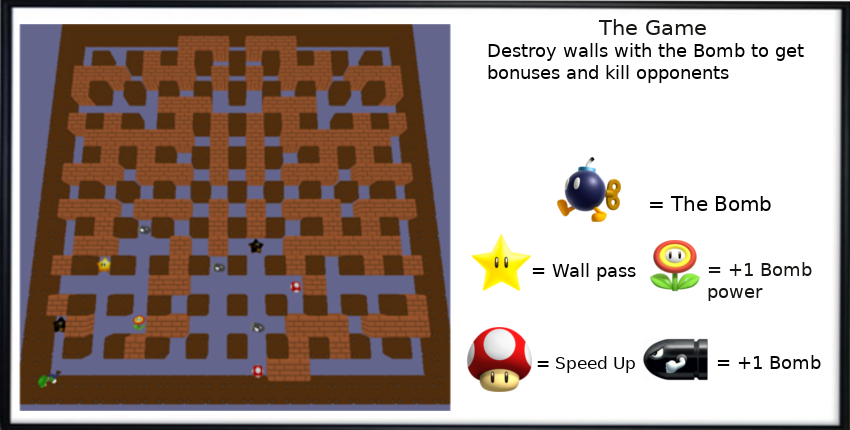
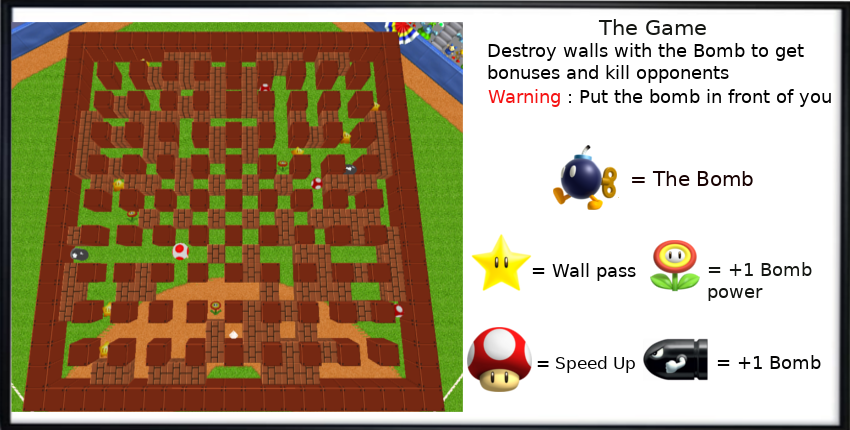
Change the how to play and the title Menu

diff --git a/src/GameObject/Character/BotIA.cpp b/src/GameObject/Character/BotIA.cpp
@@ -172,7 +172,7 @@ bool BotIA::breakWall(MyEventReceiver &event)
             event.setKeyPressed(EKEY_CODE::KEY_KEY_Z);
             return true;
         }
-    if  (pos.Y + 1 >= 0 && !_map.getMap()[pos.X][pos.Y + 1].empty() && _map.getMap()[pos.X][pos.Y + 1].at(0)->getType() == GameObject::objecType_t::WALL)
+    if  (pos.Y + 1 < _map.getSize() && !_map.getMap()[pos.X][pos.Y + 1].empty() && _map.getMap()[pos.X][pos.Y + 1].at(0)->getType() == GameObject::objecType_t::WALL)
         if (std::dynamic_pointer_cast<Wall>(_map.getMap()[pos.X][pos.Y + 1].at(0))->isBreakable()) {
             event.setKeyPressed(EKEY_CODE::KEY_KEY_S);
             return true;
@@ -182,7 +182,7 @@ bool BotIA::breakWall(MyEventReceiver &event)
             event.setKeyPressed(EKEY_CODE::KEY_KEY_D);
             return true;
         }
-    if  (pos.X + 1 >= 0 && !_map.getMap()[pos.X + 1][pos.Y].empty() && _map.getMap()[pos.X + 1][pos.Y].at(0)->getType() == GameObject::objecType_t::WALL)
+    if  (pos.X + 1 < _map.getSize() && !_map.getMap()[pos.X + 1][pos.Y].empty() && _map.getMap()[pos.X + 1][pos.Y].at(0)->getType() == GameObject::objecType_t::WALL)
         if (std::dynamic_pointer_cast<Wall>(_map.getMap()[pos.X + 1][pos.Y].at(0))->isBreakable()) {
             event.setKeyPressed(EKEY_CODE::KEY_KEY_Q);
             return true;
@@ -196,7 +196,7 @@ bool BotIA::checkWallAround(irr::u16 x, irr::u16 y)
         if (std::dynamic_pointer_cast<Wall>(_map.getMap()[x][y - 1].at(0))->isBreakable())
             return true;
     }
-    if  (y + 1 >= 0 && !_map.getMap()[x][y + 1].empty() && _map.getMap()[x][y + 1].at(0)->getType() == GameObject::objecType_t::WALL) {
+    if  (y + 1 < _map.getSize() && !_map.getMap()[x][y + 1].empty() && _map.getMap()[x][y + 1].at(0)->getType() == GameObject::objecType_t::WALL) {
         if (std::dynamic_pointer_cast<Wall>(_map.getMap()[x][y + 1].at(0))->isBreakable())
             return true;
     }
@@ -204,7 +204,7 @@ bool BotIA::checkWallAround(irr::u16 x, irr::u16 y)
         if (std::dynamic_pointer_cast<Wall>(_map.getMap()[x - 1][y].at(0))->isBreakable())
             return true;
     }
-    if  (x + 1 >= 0 && !_map.getMap()[x + 1][y].empty() && _map.getMap()[x + 1][y].at(0)->getType() == GameObject::objecType_t::WALL) {
+    if  (x + 1 < _map.getSize() && !_map.getMap()[x + 1][y].empty() && _map.getMap()[x + 1][y].at(0)->getType() == GameObject::objecType_t::WALL) {
         if (std::dynamic_pointer_cast<Wall>(_map.getMap()[x + 1][y].at(0))->isBreakable())
             return true;
     }

diff --git a/src/Scenes/Menu_game.cpp b/src/Scenes/Menu_game.cpp
@@ -7,7 +7,7 @@
 
 #include "Menu_game.hpp"
 
-Menu_game::Menu_game(irr::IrrlichtDevice* device, MyEventReceiver &receiver, Map &map, IScene *scene) : AScene(device, receiver, false), _map(map), _previous(scene)
+Menu_game::Menu_game(irr::IrrlichtDevice* device, MyEventReceiver &receiver, Map &map, IScene *scene, Sound sound) : AScene(device, receiver, false), _map(map), _previous(scene), _sound(sound)
 {
     guienv = device->getGUIEnvironment();
     print_image();
@@ -51,7 +51,8 @@ IScene* Menu_game::update()
 
         case GUI_QUIT_GAME:
             back = new Background(_device, _events);
-            // next = new Menu(this->_device, this->_events, back);
+            next = new Menu(this->_device, this->_events, back, _sound);
+            delete _previous;
             delete this;
             return (next);
 

diff --git a/includes/Scenes/Menu_game.hpp b/includes/Scenes/Menu_game.hpp
@@ -13,6 +13,7 @@
 #include "Game.hpp"
 #include "Map.hpp"
 #include "background.hpp"
+#include "Sound.hpp"
 
 enum
 {
@@ -24,7 +25,7 @@ enum
 class Menu_game : public AScene
 {
     public:
-    Menu_game(irr::IrrlichtDevice* device, MyEventReceiver &receiver, Map &map, IScene *scene);
+    Menu_game(irr::IrrlichtDevice* device, MyEventReceiver &receiver, Map &map, IScene *scene, Sound);
     ~Menu_game();
     IScene* update() override;
     void display() override;
@@ -33,6 +34,7 @@ class Menu_game : public AScene
     void print_image();
 
     private:
+        Sound _sound;
         Map &_map;
         IScene *_previous;
         irr::gui::IGUIEnvironment *guienv;

diff --git a/src/Scenes/Settings.cpp b/src/Scenes/Settings.cpp
@@ -81,7 +81,6 @@ bool Settings::button()
     return_menu->setDrawBorder(0);
     return_menu->setPressedImage(return_texture_pressed);
     but_sound = guienv->addButton(irr::core::rect<irr::s32>(950,300,1050,320), 0, GUI_SOUND, L"Validate");
-    // music = guienv->addButton(irr::core::rect<irr::s32>(280,110,370,130), 0, GUI_MUSIC, L"Settings");
     return (true);
 }
 

diff --git a/src/Menu.cpp b/src/Menu.cpp
@@ -110,7 +110,7 @@ void Menu::display()
 void Menu::tittle()
 {
     title = guienv->addImage(_driver->getTexture("./assets/meshs/Menu/BomberMario.png"),
-            irr::core::position2d<int>(300,30));
+            irr::core::position2d<int>(250,30));
     title->setScaleImage(true);
 }
 

diff --git a/src/Scenes/Game.cpp b/src/Scenes/Game.cpp
@@ -190,7 +190,7 @@ IScene* Game::update()
     }
 
     if (_events.IsKeyReleased(irr::KEY_ESCAPE)) {
-        next = new Menu_game(_device, _events, _map, this);
+        next = new Menu_game(_device, _events, _map, this, _sound);
         return (next);
     }
     _events.resetKeys();
